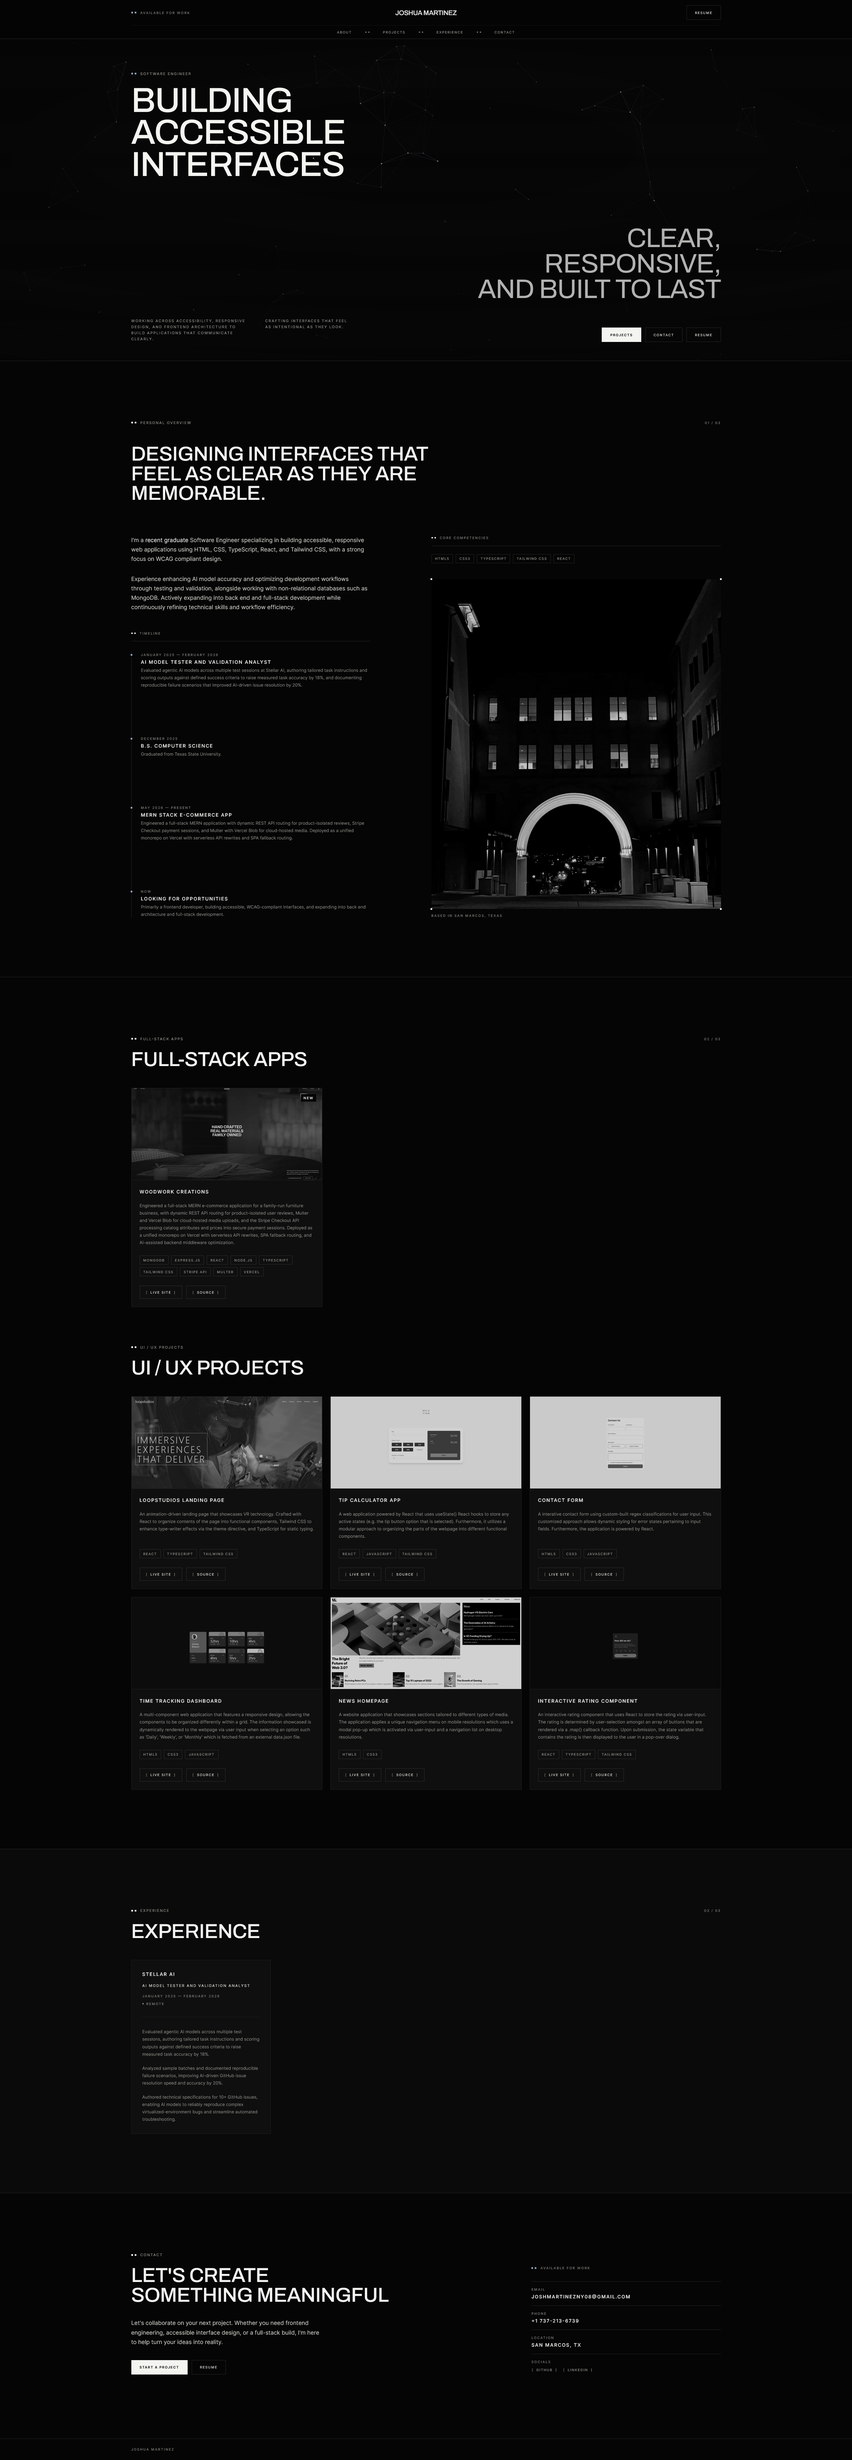
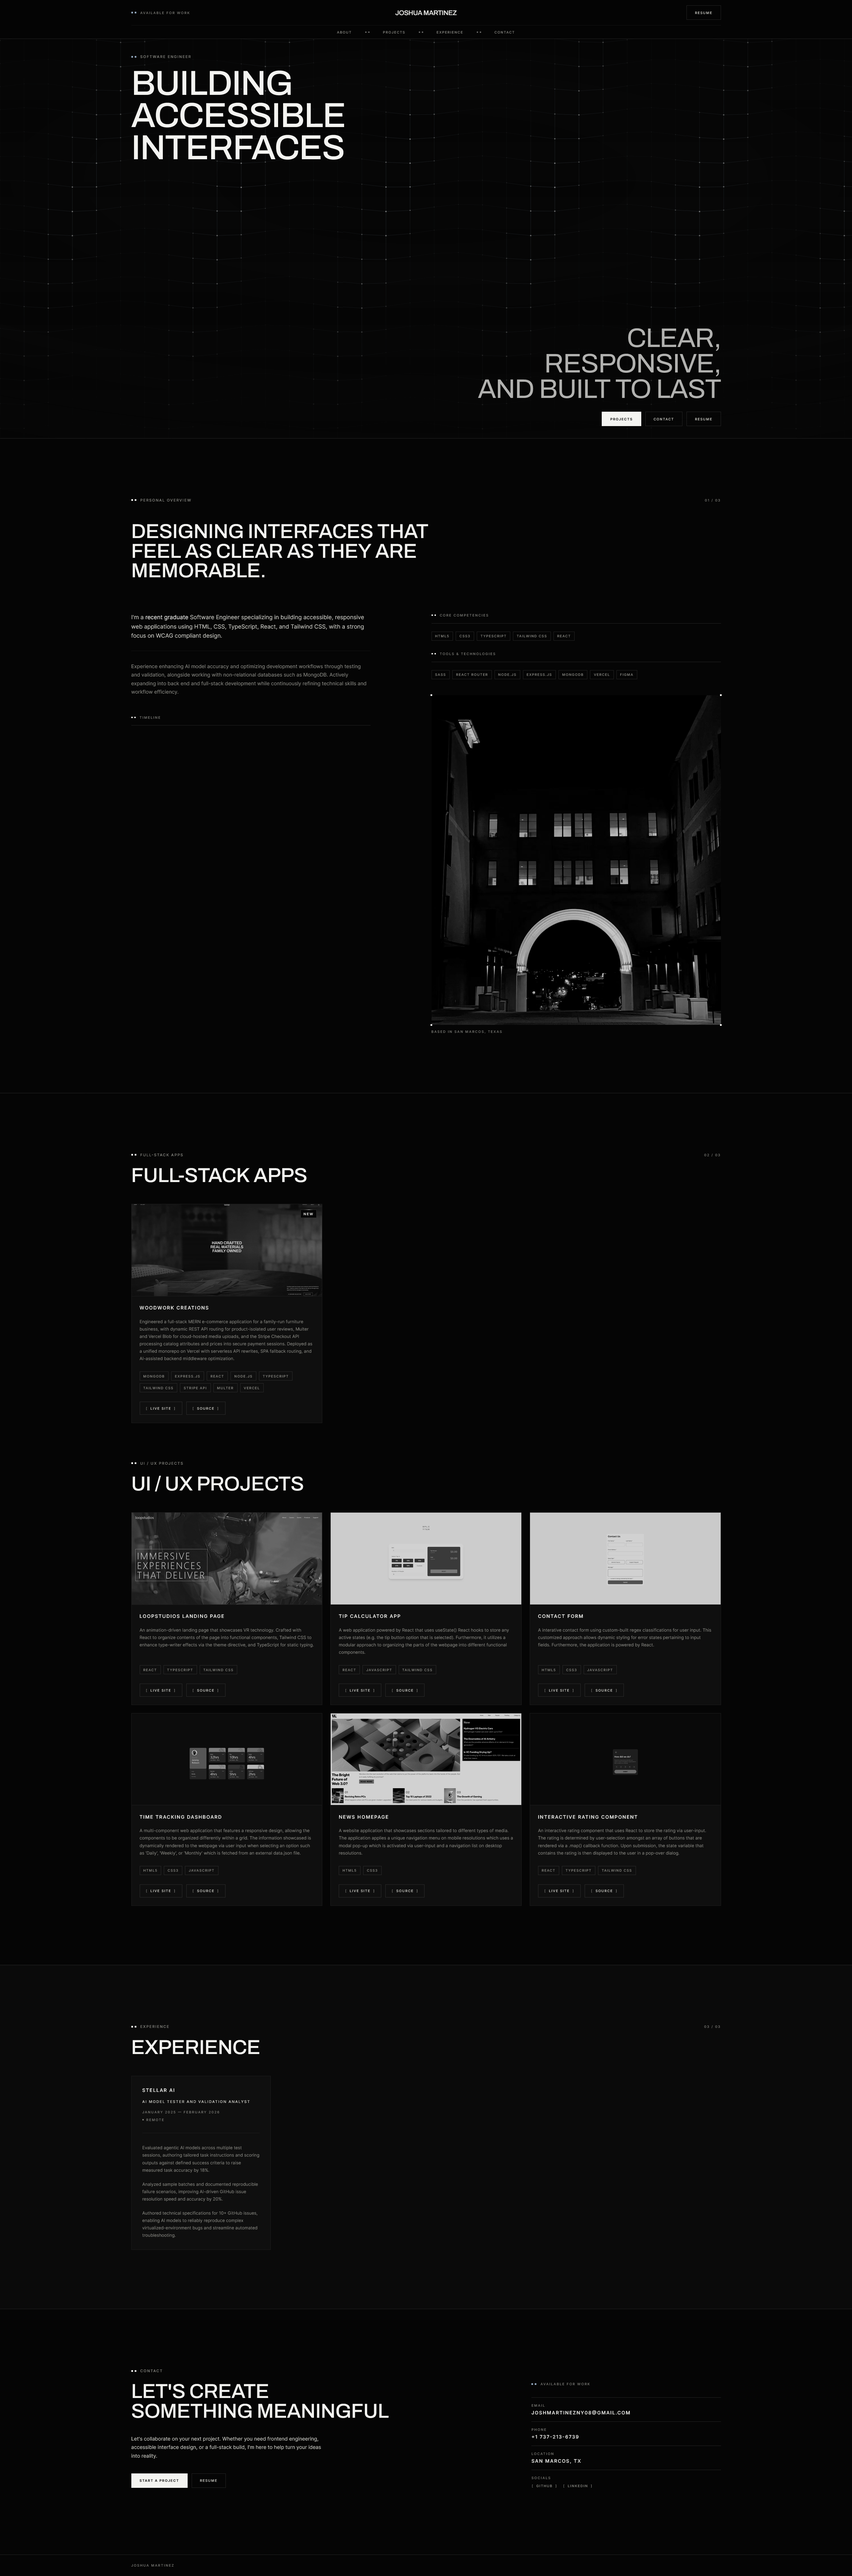
Update the README for the grid backdrop and later fixes
Screenshots: replaces both current-design captures with the new ones, which
show the grid hero and the hero filling the viewport. Kept at the existing
after- filenames rather than adding -new ones, so the before/after pair stays
symmetrical and does not need renaming again next time.

The hero's alt text described a drifting node mesh, which no longer exists.

Design decisions gains the --header-h note: the header measures itself and
publishes its height, which both scroll-padding-top and the hero's own sizing
consume. Motion now covers four animations rather than three, including how the
timeline degrades — its resting state is its finished state, so anything that
never arms simply sees it drawn.

Challenges: the two sheen entries were both about the same feature, so they are
merged into one covering both failures. Added the two most transferable bugs
found since: viewport units measuring the viewport without browser chrome, and
a transform inside a scroll container growing its scrollable area for 300ms.

diff --git a/README.md b/README.md
@@ -4,7 +4,7 @@ A personal portfolio for a frontend-leaning software engineer. Read the work, sc
 
 **Live:** [joshuam-portfolio.vercel.app](https://joshuam-portfolio.vercel.app/)
 
-![The portfolio hero: the words Building Accessible Interfaces set large over a slowly drifting node mesh, with Clear, Responsive, And Built To Last set opposite](docs/screenshots/after-hero.png)
+![The portfolio hero: the words Building Accessible Interfaces set large over a faint grid mesh with a wave rippling across it, and Clear, Responsive, And Built To Last set opposite at the base](docs/screenshots/after-hero.png)
 
 <details>
 <summary>See the full page</summary>
@@ -40,7 +40,9 @@ A single-page site, deliberately. Everything is one route with anchor navigation
 
 **React Aria for the one interactive component.** The resume modal is the only real widget on the site. Focus trapping, escape handling, scroll locking, and the labelling relationship between the dialog and its heading are all things I would have got subtly wrong by hand.
 
-**Motion that yields.** There are three animations: a node mesh behind the hero, a highlight that travels across the headlines, and a light orbiting the "new" badge. The mesh pauses when it scrolls out of view and paints a single static frame under `prefers-reduced-motion`; the others are covered by a reduced-motion block that neutralises them globally. Nothing animates that a visitor cannot opt out of.
+**Motion that yields.** Four animations: a grid behind the hero with a wave crossing it, a highlight travelling across the headlines, the timeline drawing itself in as it scrolls into view, and a light orbiting the "new" badge. The grid pauses when the hero scrolls out of view and paints a single static frame under `prefers-reduced-motion`; the timeline's resting state *is* its finished state, so anything that never arms simply sees it drawn; the rest are neutralised by a global reduced-motion block. Nothing animates that a visitor cannot opt out of.
+
+**One measurement, published once.** The header measures itself and publishes its height as `--header-h`, which `scroll-padding-top` consumes. Hard-coding it meant the value drifted the moment the header changed, and the drift showed as a strip of background between the header's bottom border and the border of whichever section an anchor landed on. The hero also sizes itself against it, so it fills exactly what the header leaves of the viewport.
 
 **Contrast checked against the surface, not the page.** Type sits on three different grounds here. A token verified against the darkest one is not automatically safe on a lighter card, which is exactly how a label ended up at 4.44:1 on the experience surface while passing everywhere else.
 
@@ -52,9 +54,11 @@ A single-page site, deliberately. Everything is one route with anchor navigation
 
 **A phantom gap that moved between breakpoints.** An offset heading was positioned with an empty spacer `div` in a grid. Below the breakpoint the grid collapsed to one column, and the spacer became a zero-height row that still paid the row gap, pushing the heading down by an extra 48px. Positioning with `col-start` instead of an empty element removed both the gap and the element.
 
-**Percentages that travel backwards.** The highlight sweeping across the hero ran the wrong way. When `background-size` is larger than the element, the offset resolves to `(container - image) * position`, and that term is negative, so a percentage moves the image opposite to the number. The fix was counting down instead of up.
+**A highlight that ran backwards, then vanished.** The sweep across the hero headlines went wrong twice. First it travelled the wrong way: when `background-size` is larger than the element, the offset resolves to `(container - image) * position`, and that term is negative, so a percentage moves the image opposite to the number. Counting down instead of up fixed it. Then, once the headline went back to solid bone, it disappeared — bone is already 244 of 255, so a white band can only add about 4% luminance. It reads now because the band carries a slight darkening either side of its core, and it is the dip against the peak that the eye registers as a highlight rather than the peak itself.
 
-**A highlight with no headroom.** Once the headline went back to solid bone, the sweep vanished. Bone is already 244 of 255, so a white band can only add about 4% luminance. It reads now because the band carries a slight darkening on either side of its core, and it is that dip against the peak that the eye registers as a highlight.
+**Viewport units that measure the wrong viewport.** On mobile, `vh` resolves against the viewport with the browser's URL bar collapsed, so a hero sized in `vh` runs underneath that bar and clips whatever sits at its bottom edge — here, the three calls to action. `svh` is the small viewport, measured with the chrome expanded, and fixes it. `svh` rather than `dvh` deliberately: `dvh` tracks the bar as it collapses during a scroll, which would resize the hero underneath the reader. The `vh` fallback also needed writing as `@supports` rather than two declarations in one rule, because the minifier reads the second as redundant and drops the first — leaving nothing at all for browsers without the newer units.
+
+**A scrollbar that appeared for 300ms.** Opening the resume panel flashed a scrollbar down its right edge. Its entrance animated each block from 12px below its final position, and the last one pushed past the bottom of the dialog, which is a scroll container — so its scrollable area grew and then shrank again. Animating from *above* instead solved it: overflow past the block-start edge of a scroll container is unreachable, so it never produces a scrollbar.
 
 **Filling a column without knowing its height.** The timeline sits beside a portrait whose height depends on the viewport. Rather than guessing, it uses `justify-between` inside a growing flex column, so it distributes across whatever height the image sets. When the entries later grew long enough to consume the column, the gap had to become a floor rather than the spacing, or they touched.
 
@@ -68,7 +72,7 @@ A single-page site, deliberately. Everything is one route with anchor navigation
 
 **Accessibility is measurable, so measure it.** Contrast is arithmetic, not taste. Every text style on the page was checked against the surface it actually renders on, and two of them failed on a surface they had never been checked against.
 
-**Animation is cheap to add and expensive to get right.** Three small animations took more iterations than the entire layout.
+**Animation is cheap to add and expensive to get right.** Four small animations took more iterations than the entire layout, and almost none of the difficulty was in the animating. It was in what the motion disturbed around it: a transform that grew a scroll container, an entrance that had to stay in step with a line drawing itself, a highlight with no luminance left to work with.
 
 What I'd do differently next time:
 
